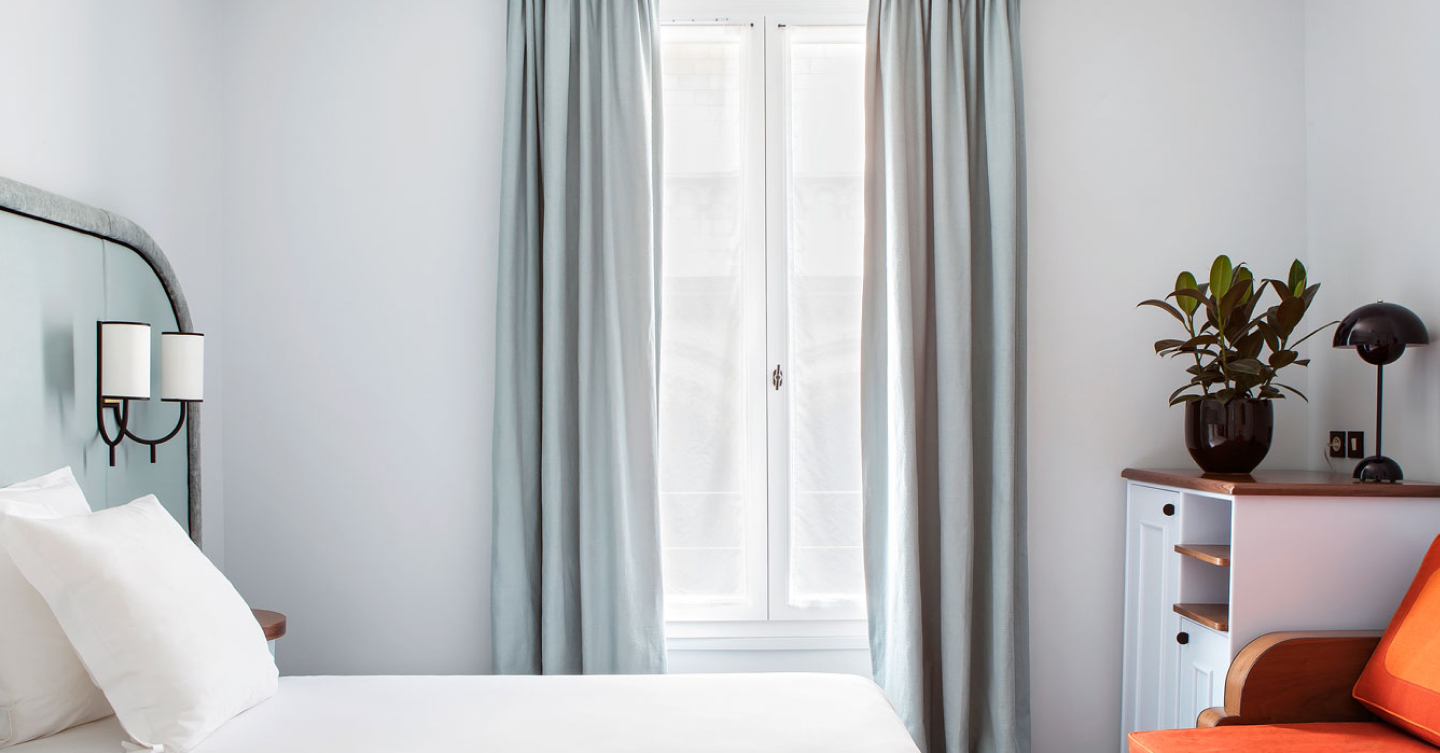
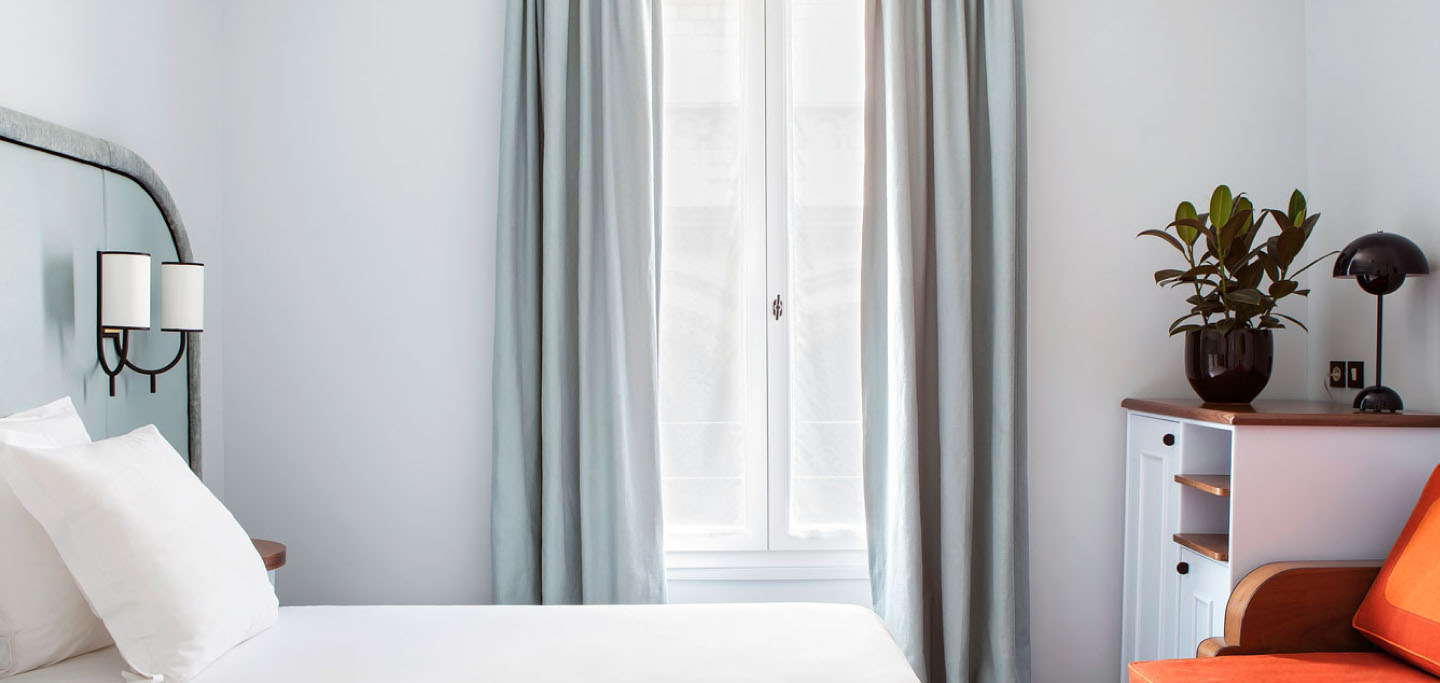
Add semantic tags to registration html page

diff --git a/SRC/pages/sign-up/sign-up.scss b/SRC/pages/sign-up/sign-up.scss
@@ -14,12 +14,13 @@ $header-media3: 488px;
 
 .main-content {
   width: 100%;
-  min-height: 771px;
-  background: url("../../images/backgrounds/sign-up.jpg");
+  min-height: 701px;
+  background: url("../../images/backgrounds/sign-up.jpg") no-repeat;
+  padding-top: 30px;
 }
 
 .main-content__sign-up-form {
-  margin: 30px auto 0 auto;
+  margin: 0 auto;
   max-width: 380px;
 }
 
